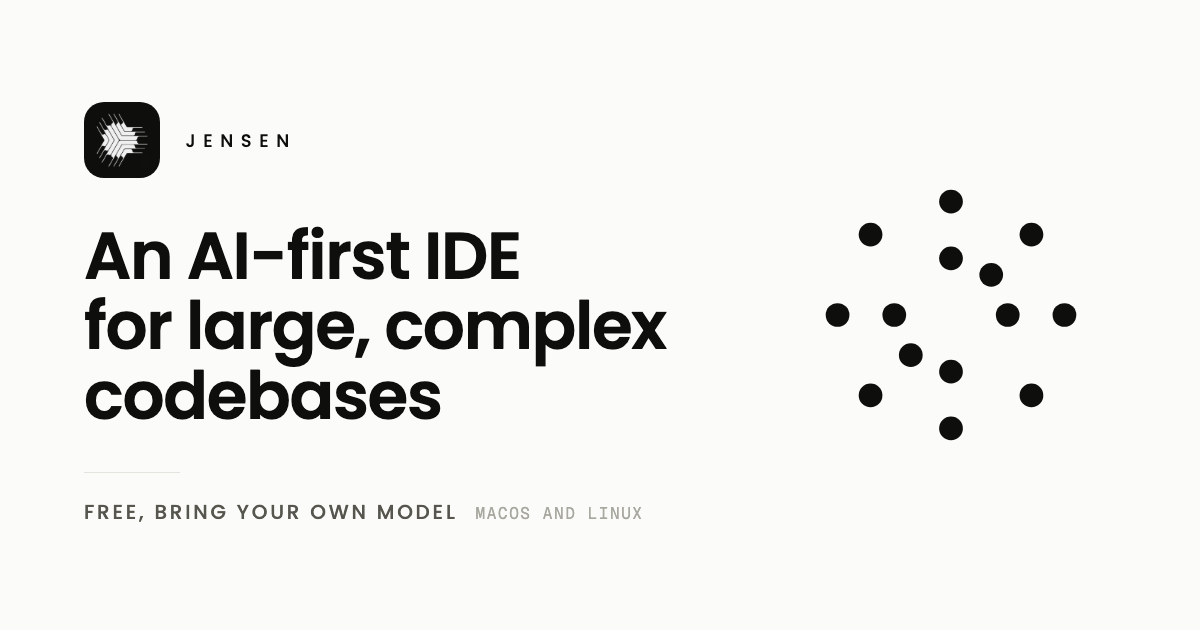
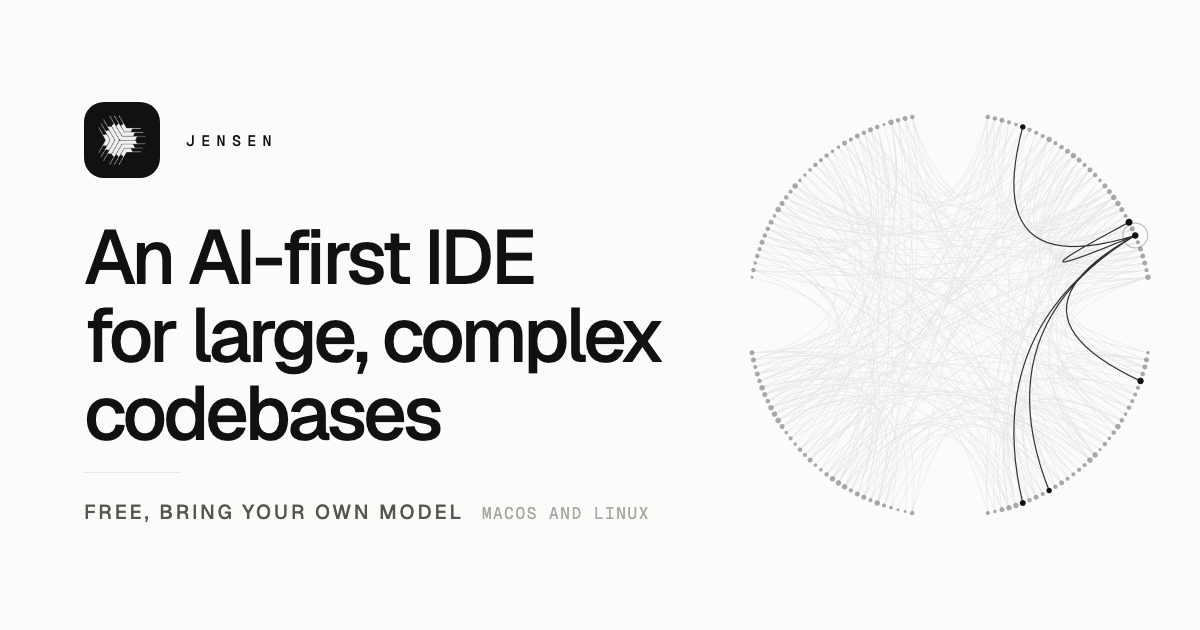
fix(og): render the real query graph in the social preview

diff --git a/scripts/og.html b/scripts/og.html
@@ -3,16 +3,39 @@
 <head>
 <meta charset="UTF-8">
 <style>
-@font-face { font-family: 'Poppins'; font-weight: 500; src: url('../docs-site/src/fonts/poppins-500.woff2') format('woff2'); }
+@font-face { font-family: 'Geist'; font-weight: 100 900; src: url('../public/fonts/geist.woff2') format('woff2'); }
 @font-face { font-family: 'Geist Mono'; font-weight: 100 900; src: url('../public/fonts/geist-mono.woff2') format('woff2'); }
-html, body { margin: 0; width: 1200px; height: 630px; background: #fbfbf9; }
-body { position: relative; background-image: url('og-art.png'); background-size: 1200px 630px; }
+html, body { margin: 0; width: 1200px; height: 630px; background: #fbfbf9; overflow: hidden; }
+body { position: relative; color: #111110; }
+.tile { position: absolute; left: 84px; top: 102px; width: 76px; height: 76px; border-radius: 20px; background: #111110; display: grid; place-items: center; }
+.tile img { width: 68%; height: auto; display: block; filter: invert(1); }
+.brand { position: absolute; left: 186px; top: 130px; font: 500 15px/22px 'Geist Mono', monospace; letter-spacing: 0.42em; }
+.headline { position: absolute; left: 84px; top: 218px; margin: 0; font: 500 76px/78px 'Geist', sans-serif; letter-spacing: -0.045em; }
+.rule { position: absolute; left: 84px; top: 472px; width: 96px; height: 1px; background: rgba(17, 17, 16, 0.08); }
 .line { position: absolute; left: 84px; top: 502px; display: flex; align-items: baseline; gap: 18px; white-space: nowrap; }
-.lead { font: 500 20px/1 'Poppins', sans-serif; letter-spacing: 0.14em; color: #56564f; }
+.lead { font: 500 20px/1 'Geist', sans-serif; letter-spacing: 0.14em; color: #56564f; }
 .tail { font: 400 16px/1 'Geist Mono', monospace; letter-spacing: 0.1em; color: #a8a8a0; }
+canvas { position: absolute; left: 710px; top: 75px; width: 480px; height: 480px; }
 </style>
 </head>
 <body>
+<span class="tile"><img src="../public/jensen.png" alt=""></span>
+<div class="brand">JENSEN</div>
+<h1 class="headline">An AI-first IDE<br>for large, complex<br>codebases</h1>
+<div class="rule"></div>
 <div class="line"><span class="lead">FREE, BRING YOUR OWN MODEL</span><span class="tail">MACOS AND LINUX</span></div>
+<canvas id="graph" width="960" height="960"></canvas>
+<script type="module">
+import { STILL_SECONDS, createGraph } from '/src/lib/graph.ts'
+import { drawGraph } from '/src/lib/draw.ts'
+
+const size = 480
+const canvas = document.getElementById('graph')
+const ctx = canvas.getContext('2d')
+ctx.scale(2, 2)
+drawGraph(ctx, createGraph(size), STILL_SECONDS)
+await document.fonts.ready
+window.ogReady = true
+</script>
 </body>
 </html>

diff --git a/scripts/og.ts b/scripts/og.ts
@@ -1,16 +1,23 @@
 import { copyFileSync } from 'node:fs'
 import { dirname, resolve } from 'node:path'
-import { fileURLToPath, pathToFileURL } from 'node:url'
+import { fileURLToPath } from 'node:url'
 import { chromium } from '@playwright/test'
+import { createServer } from 'vite'
 
 const here = dirname(fileURLToPath(import.meta.url))
-const output = resolve(here, '../public/og.png')
+const root = resolve(here, '..')
+const output = resolve(root, 'public/og.png')
+
+const server = await createServer({ configFile: false, root, logLevel: 'error', server: { port: 0 } })
+await server.listen()
+const origin = server.resolvedUrls?.local[0]
 
 const browser = await chromium.launch()
 const page = await browser.newPage({ viewport: { width: 1200, height: 630 } })
-await page.goto(pathToFileURL(resolve(here, 'og.html')).href)
-await page.evaluate(() => document.fonts.ready)
+await page.goto(`${origin}scripts/og.html`)
+await page.waitForFunction(() => (window as unknown as { ogReady?: boolean }).ogReady === true)
 await page.screenshot({ path: output, clip: { x: 0, y: 0, width: 1200, height: 630 } })
 await browser.close()
+await server.close()
 
-copyFileSync(output, resolve(here, '../docs-site/public/og.png'))
+copyFileSync(output, resolve(root, 'docs-site/public/og.png'))
